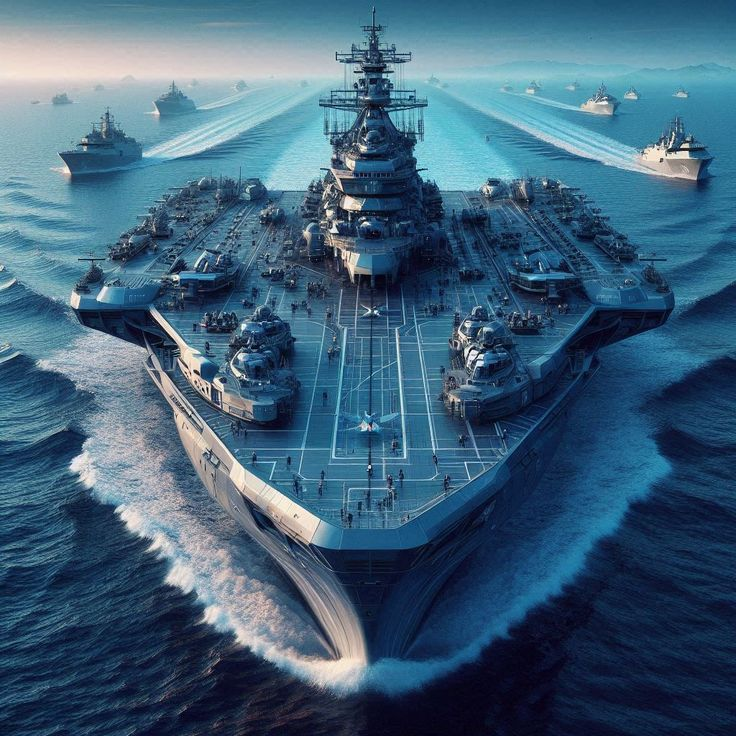
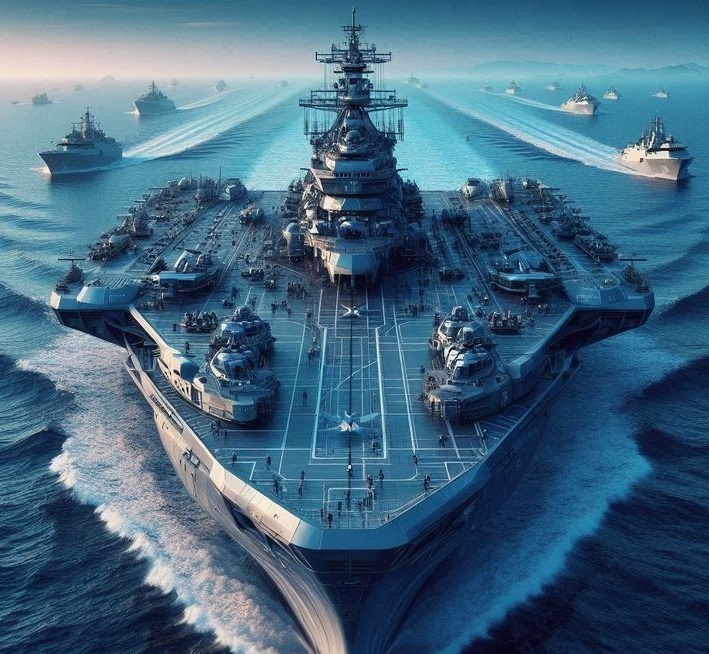
creación de las clases que creo necesitar: Game, Player,Board, GameDifficulty, Ship, Computer

diff --git a/Project_1/src/main/java/controller/LobbyController.java b/Project_1/src/main/java/controller/LobbyController.java
@@ -12,6 +12,8 @@ import javafx.event.ActionEvent;
 import javafx.fxml.FXML;
 import javafx.fxml.Initializable;
 import javafx.scene.control.Button;
+import javafx.scene.control.RadioButton;
+import javafx.scene.control.TextField;
 import javafx.scene.control.ToggleGroup;
 import javafx.scene.input.MouseEvent;
 import javafx.scene.layout.AnchorPane;
@@ -26,9 +28,17 @@ public class LobbyController implements Initializable {
     @FXML
     private ToggleGroup dificultad;
     @FXML
-    private Button btnComeBack2;
-    @FXML
     private Button btnPlay;
+    @FXML
+    private RadioButton rbHard;
+    @FXML
+    private RadioButton rbMedium;
+    @FXML
+    private RadioButton rbEasy;
+    @FXML
+    private TextField txtName;
+    @FXML
+    private Button btnBack;
 
     /**
      * Initializes the controller class.

diff --git a/Project_1/src/main/java/controller/Primary1Controller.java b/Project_1/src/main/java/controller/Primary1Controller.java
@@ -23,9 +23,9 @@ public class Primary1Controller implements Initializable {
 
 
     @FXML
-    private Button primaryButton;
-    @FXML
     private Button btnStartGamen;
+    @FXML
+    private Button btnInfo;
     /**
      * Initializes the controller class.
      */
@@ -33,17 +33,15 @@ public class Primary1Controller implements Initializable {
     public void initialize(URL url, ResourceBundle rb) {
         // TODO
     }    
-    
-    @FXML
-    private void switchToSecondary(ActionEvent event) throws IOException {
-        App.setRoot("info");
-    }
-
-  
 
     @FXML
     private void clickChangeToLobby(ActionEvent event) throws IOException {
         App.setRoot("lobby");
+    }
+
+    @FXML
+    private void switchToInfo(ActionEvent event) throws IOException {
+        App.setRoot("info");
     }
 
 }

diff --git a/Project_1/src/main/java/model/Player.java b/Project_1/src/main/java/model/Player.java
@@ -6,8 +6,35 @@ package model;
 
 /**
  *
- * @author Usuario
+ * @author CarolainQ.S
  */
+
 public class Player {
-    
+    private String name;
+    private Board board;
+
+    public Player() {
+        this.board = new Board();
+    }
+
+    public Player(String name) {
+        this.name = name;
+        this.board = new Board();
+    }
+
+    public String getName() {
+        return name;
+    }
+
+    public void setName(String name) {
+        this.name = name;
+    }
+
+    public Board getBoard() {
+        return board;
+    }
+
+    public void setBoard(Board board) {
+        this.board = board;
+    }
 }

diff --git a/Project_1/src/main/java/model/GameDifficulty.java b/Project_1/src/main/java/model/GameDifficulty.java
@@ -1,0 +1,14 @@
+/*
+ * Click nbfs://nbhost/SystemFileSystem/Templates/Licenses/license-default.txt to change this license
+ * Click nbfs://nbhost/SystemFileSystem/Templates/Classes/Class.java to edit this template
+ */
+package model;
+
+/**
+ *
+ * @author Usuario
+ */
+
+public enum GameDifficulty {
+    EASY, MEDIUM,HARD    // el facil será sin timepo, el medio con timepo y el dificl con menos timepo y quizás un tablero mas grande 
+}

diff --git a/Project_1/src/main/java/controller/GameController.java b/Project_1/src/main/java/controller/GameController.java
@@ -1,0 +1,13 @@
+/*
+ * Click nbfs://nbhost/SystemFileSystem/Templates/Licenses/license-default.txt to change this license
+ * Click nbfs://nbhost/SystemFileSystem/Templates/Classes/Class.java to edit this template
+ */
+package controller;
+
+/**
+ *
+ * @author Usuario
+ */
+public class GameController {
+    
+}

diff --git a/Project_1/src/main/java/model/Computer.java b/Project_1/src/main/java/model/Computer.java
@@ -1,0 +1,13 @@
+/*
+ * Click nbfs://nbhost/SystemFileSystem/Templates/Licenses/license-default.txt to change this license
+ * Click nbfs://nbhost/SystemFileSystem/Templates/Classes/Class.java to edit this template
+ */
+package model;
+
+/**
+ *
+ * @author Usuario
+ */
+public class Computer {
+    
+}

diff --git a/Project_1/src/main/java/model/Board.java b/Project_1/src/main/java/model/Board.java
@@ -1,0 +1,13 @@
+/*
+ * Click nbfs://nbhost/SystemFileSystem/Templates/Licenses/license-default.txt to change this license
+ * Click nbfs://nbhost/SystemFileSystem/Templates/Classes/Class.java to edit this template
+ */
+package model;
+
+/**
+ *
+ * @author Usuario
+ */
+public class Board {
+    
+}

diff --git a/Project_1/src/main/java/model/Game.java b/Project_1/src/main/java/model/Game.java
@@ -1,0 +1,13 @@
+/*
+ * Click nbfs://nbhost/SystemFileSystem/Templates/Licenses/license-default.txt to change this license
+ * Click nbfs://nbhost/SystemFileSystem/Templates/Classes/Class.java to edit this template
+ */
+package model;
+
+/**
+ *
+ * @author Usuario
+ */
+public class Game {
+    
+}

diff --git a/Project_1/src/main/java/model/Ship.java b/Project_1/src/main/java/model/Ship.java
@@ -1,0 +1,13 @@
+/*
+ * Click nbfs://nbhost/SystemFileSystem/Templates/Licenses/license-default.txt to change this license
+ * Click nbfs://nbhost/SystemFileSystem/Templates/Classes/Class.java to edit this template
+ */
+package model;
+
+/**
+ *
+ * @author Usuario
+ */
+public class Ship {
+    
+}

diff --git a/Project_1/src/main/java/controller/InfoController.java b/Project_1/src/main/java/controller/InfoController.java
@@ -22,7 +22,7 @@ public class InfoController implements Initializable {
 
 
     @FXML
-    private Button btnComeBack;
+    private Button btnBack;
     /**
      * Initializes the controller class.
      */

diff --git a/Project_1/src/main/java/com/mycompany/project_1/App.java b/Project_1/src/main/java/com/mycompany/project_1/App.java
@@ -6,7 +6,6 @@ import javafx.fxml.FXMLLoader;
 import javafx.scene.Parent;
 import javafx.scene.Scene;
 import javafx.stage.Stage;
-
 import java.io.IOException;
 
 /**
